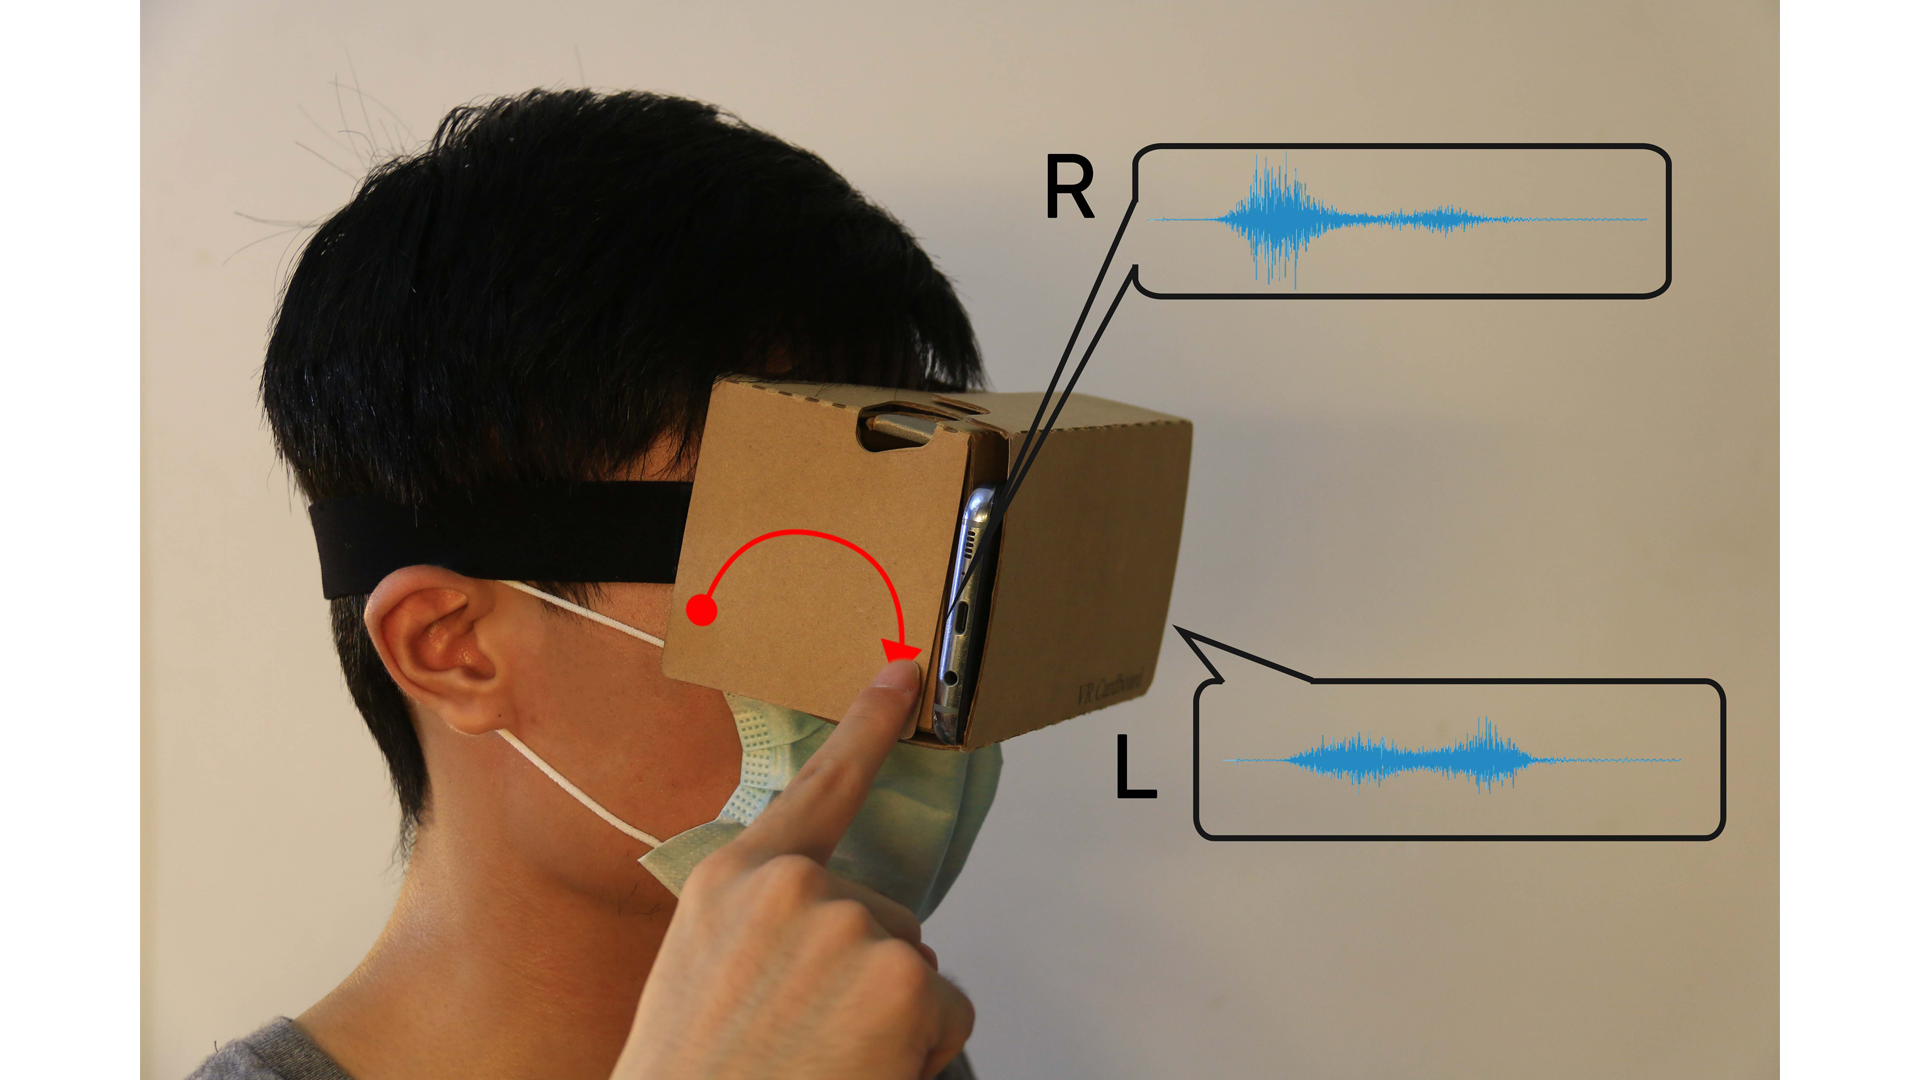
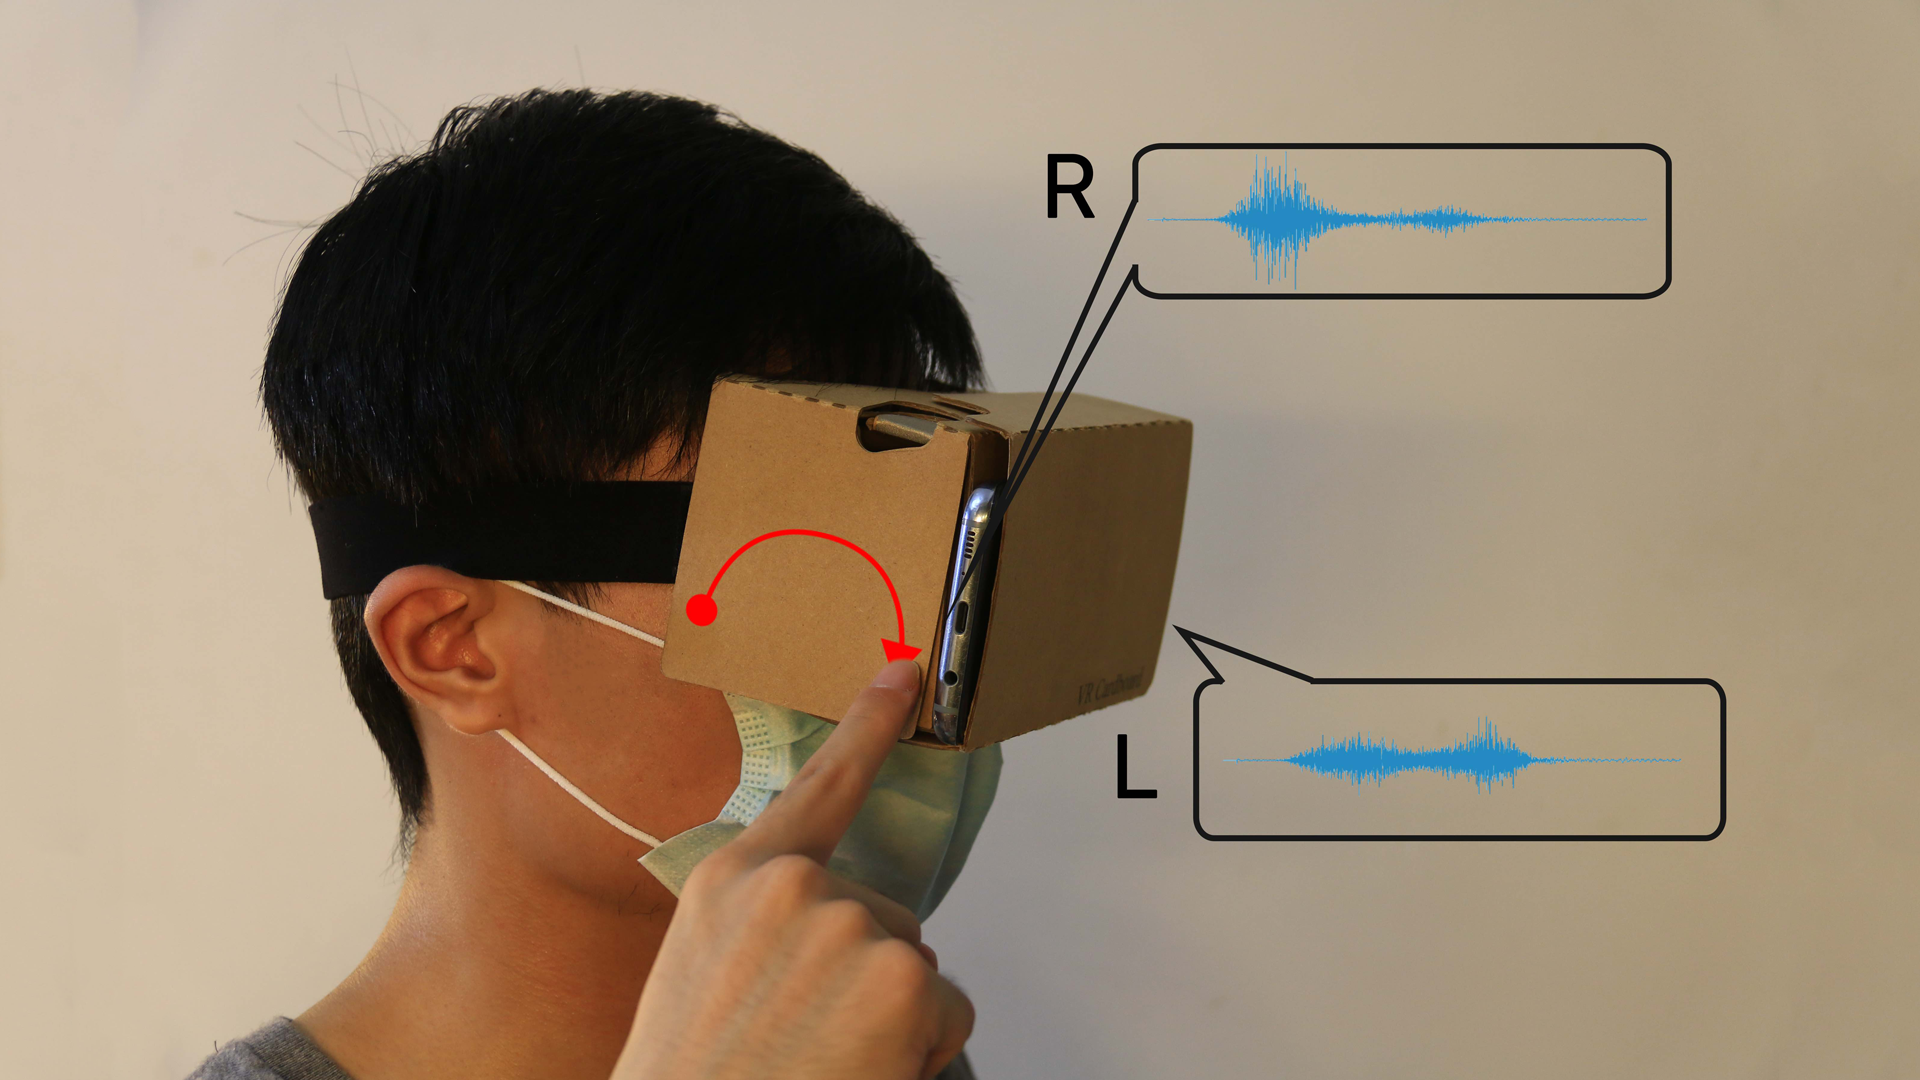
project-based publications

Changed region(s): [[0.9062, 0.0, 1.0, 1.0], [0.0, 0.0, 0.0938, 1.0]]

diff --git a/index.html b/index.html
@@ -363,7 +363,7 @@
 					<div class="col-md-4">
 						<div class="work-entry animate-box">
 							<div class="item">
-								<img class="img-responsive center-block img-thumbnail" src="images/project_img/demo_haptwist.png" style="width: 16em; height: 9em;">
+								<img class="img-responsive center-block img-thumbnail" src="images/project_img/demo_haptwist.jpg" style="width: 16em; height: 9em;">
 							</div>
 						</div>
 					</div>
